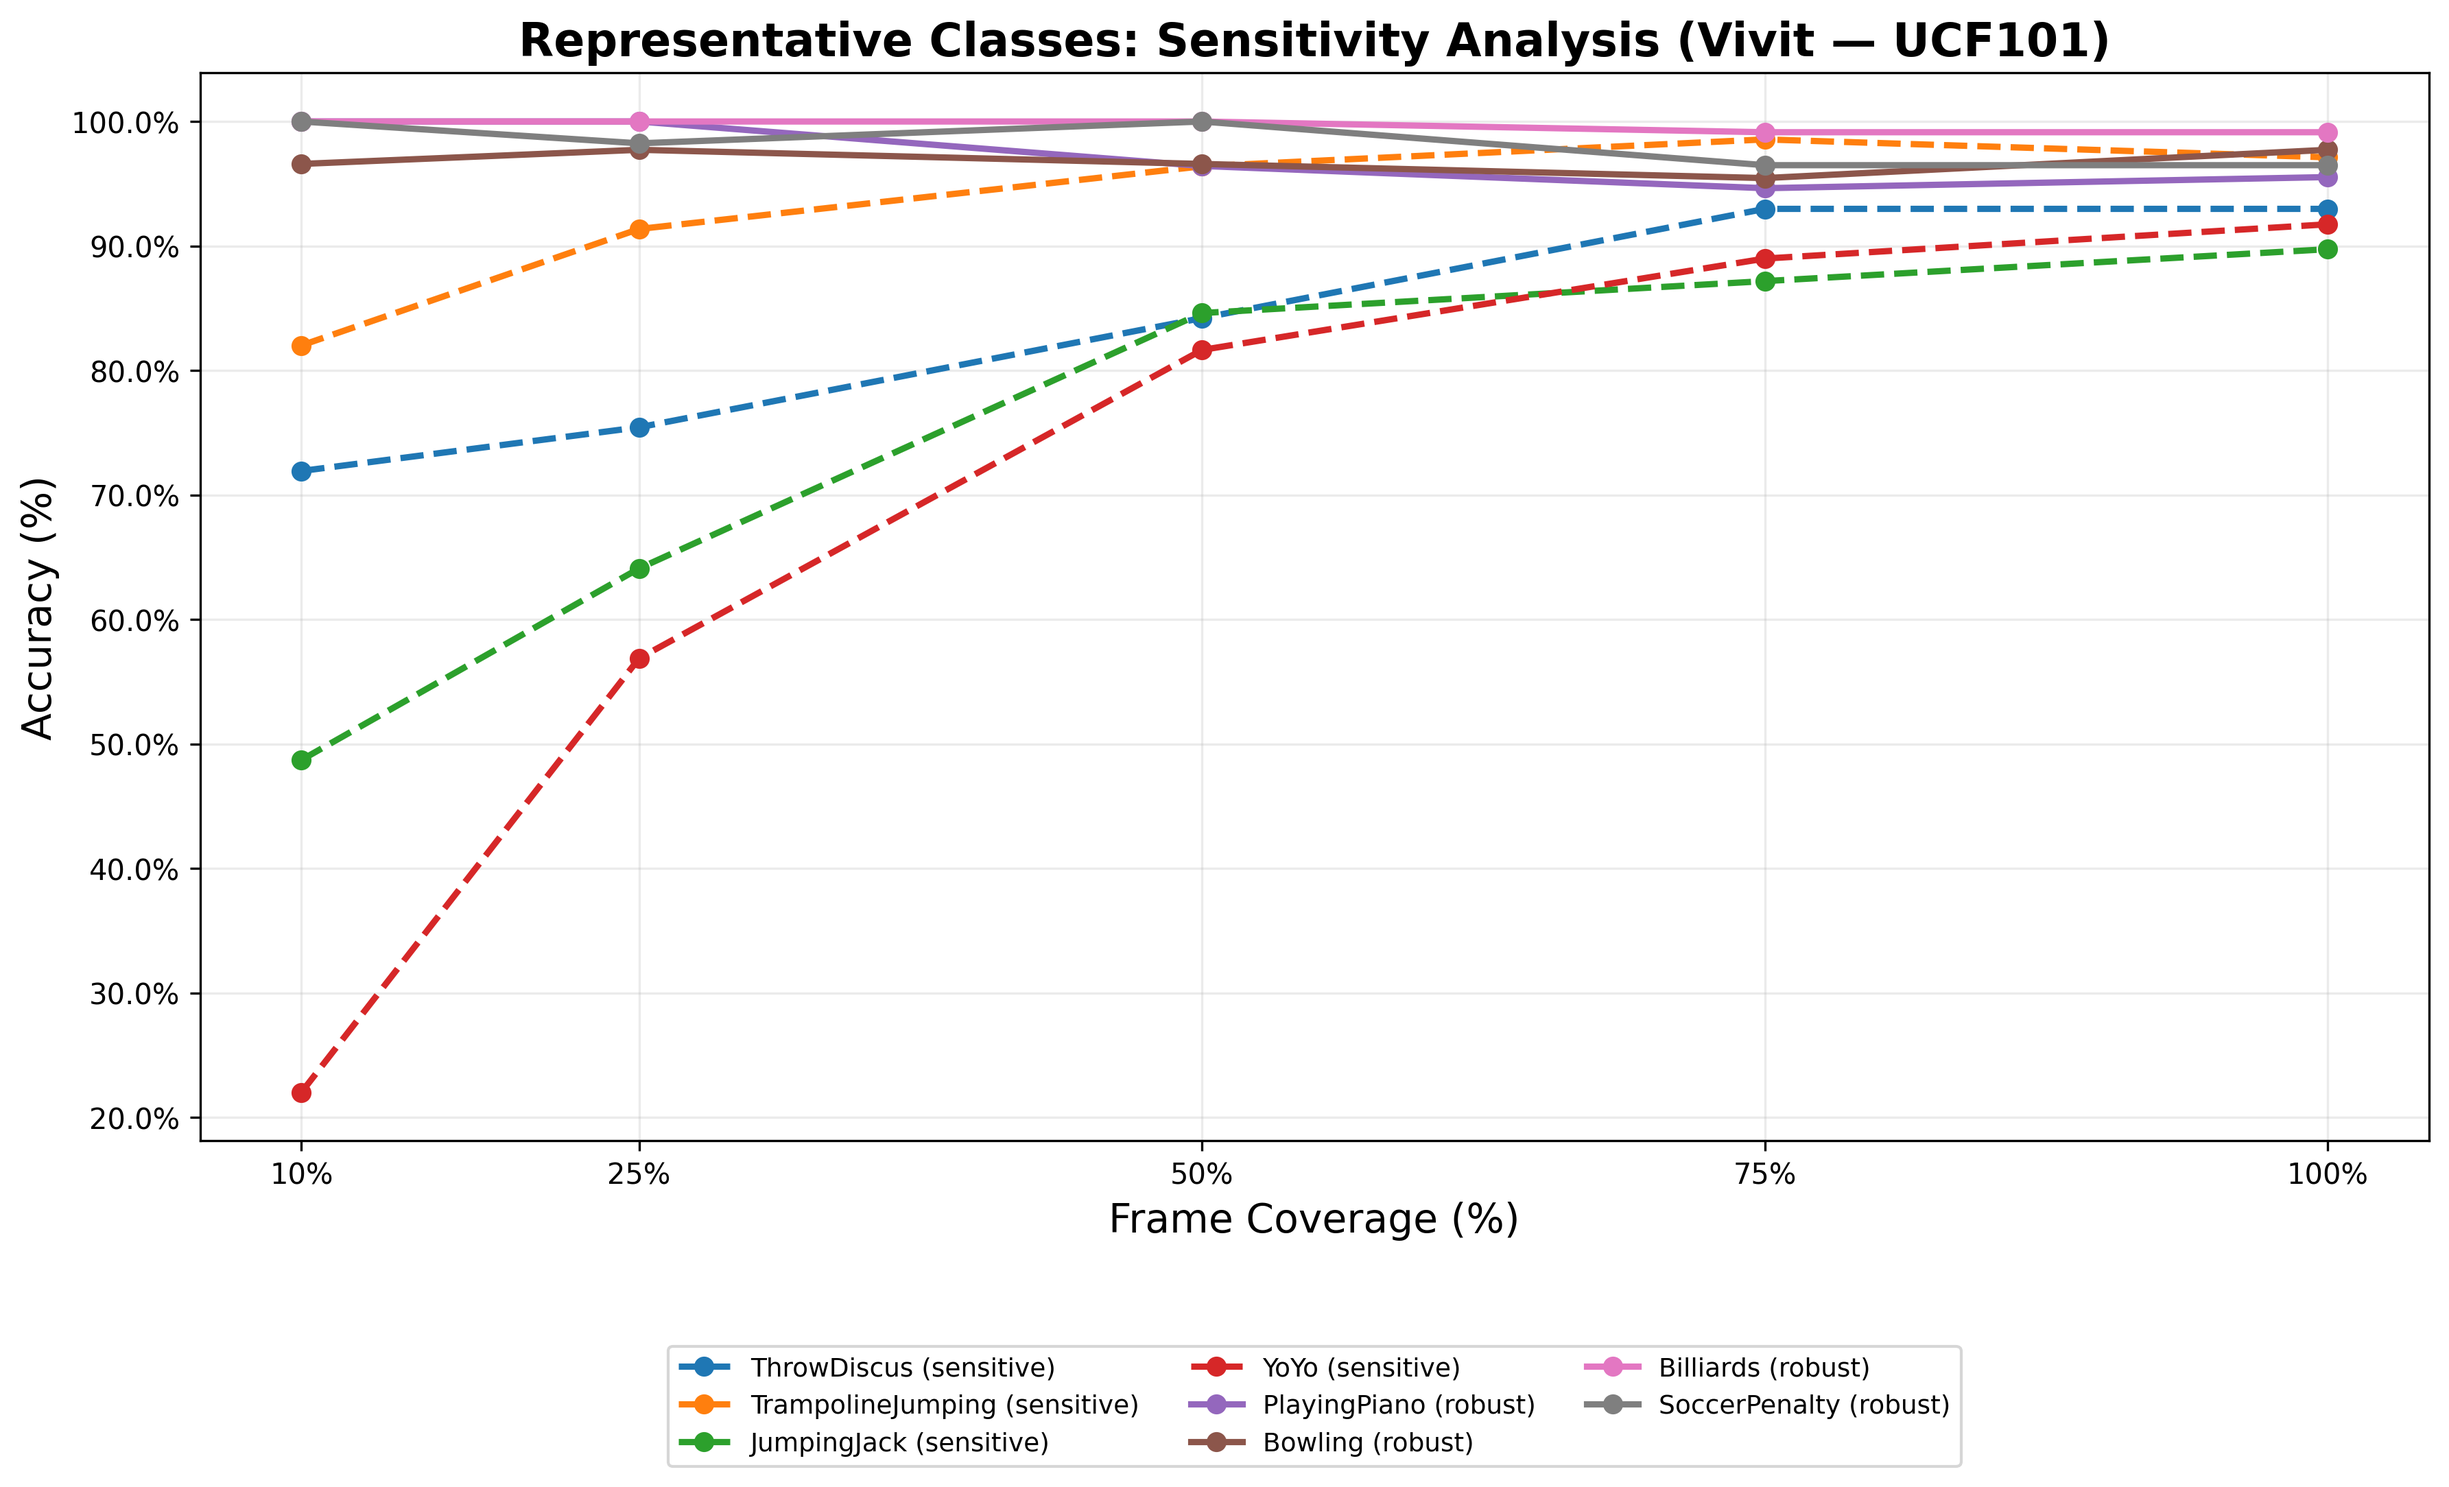
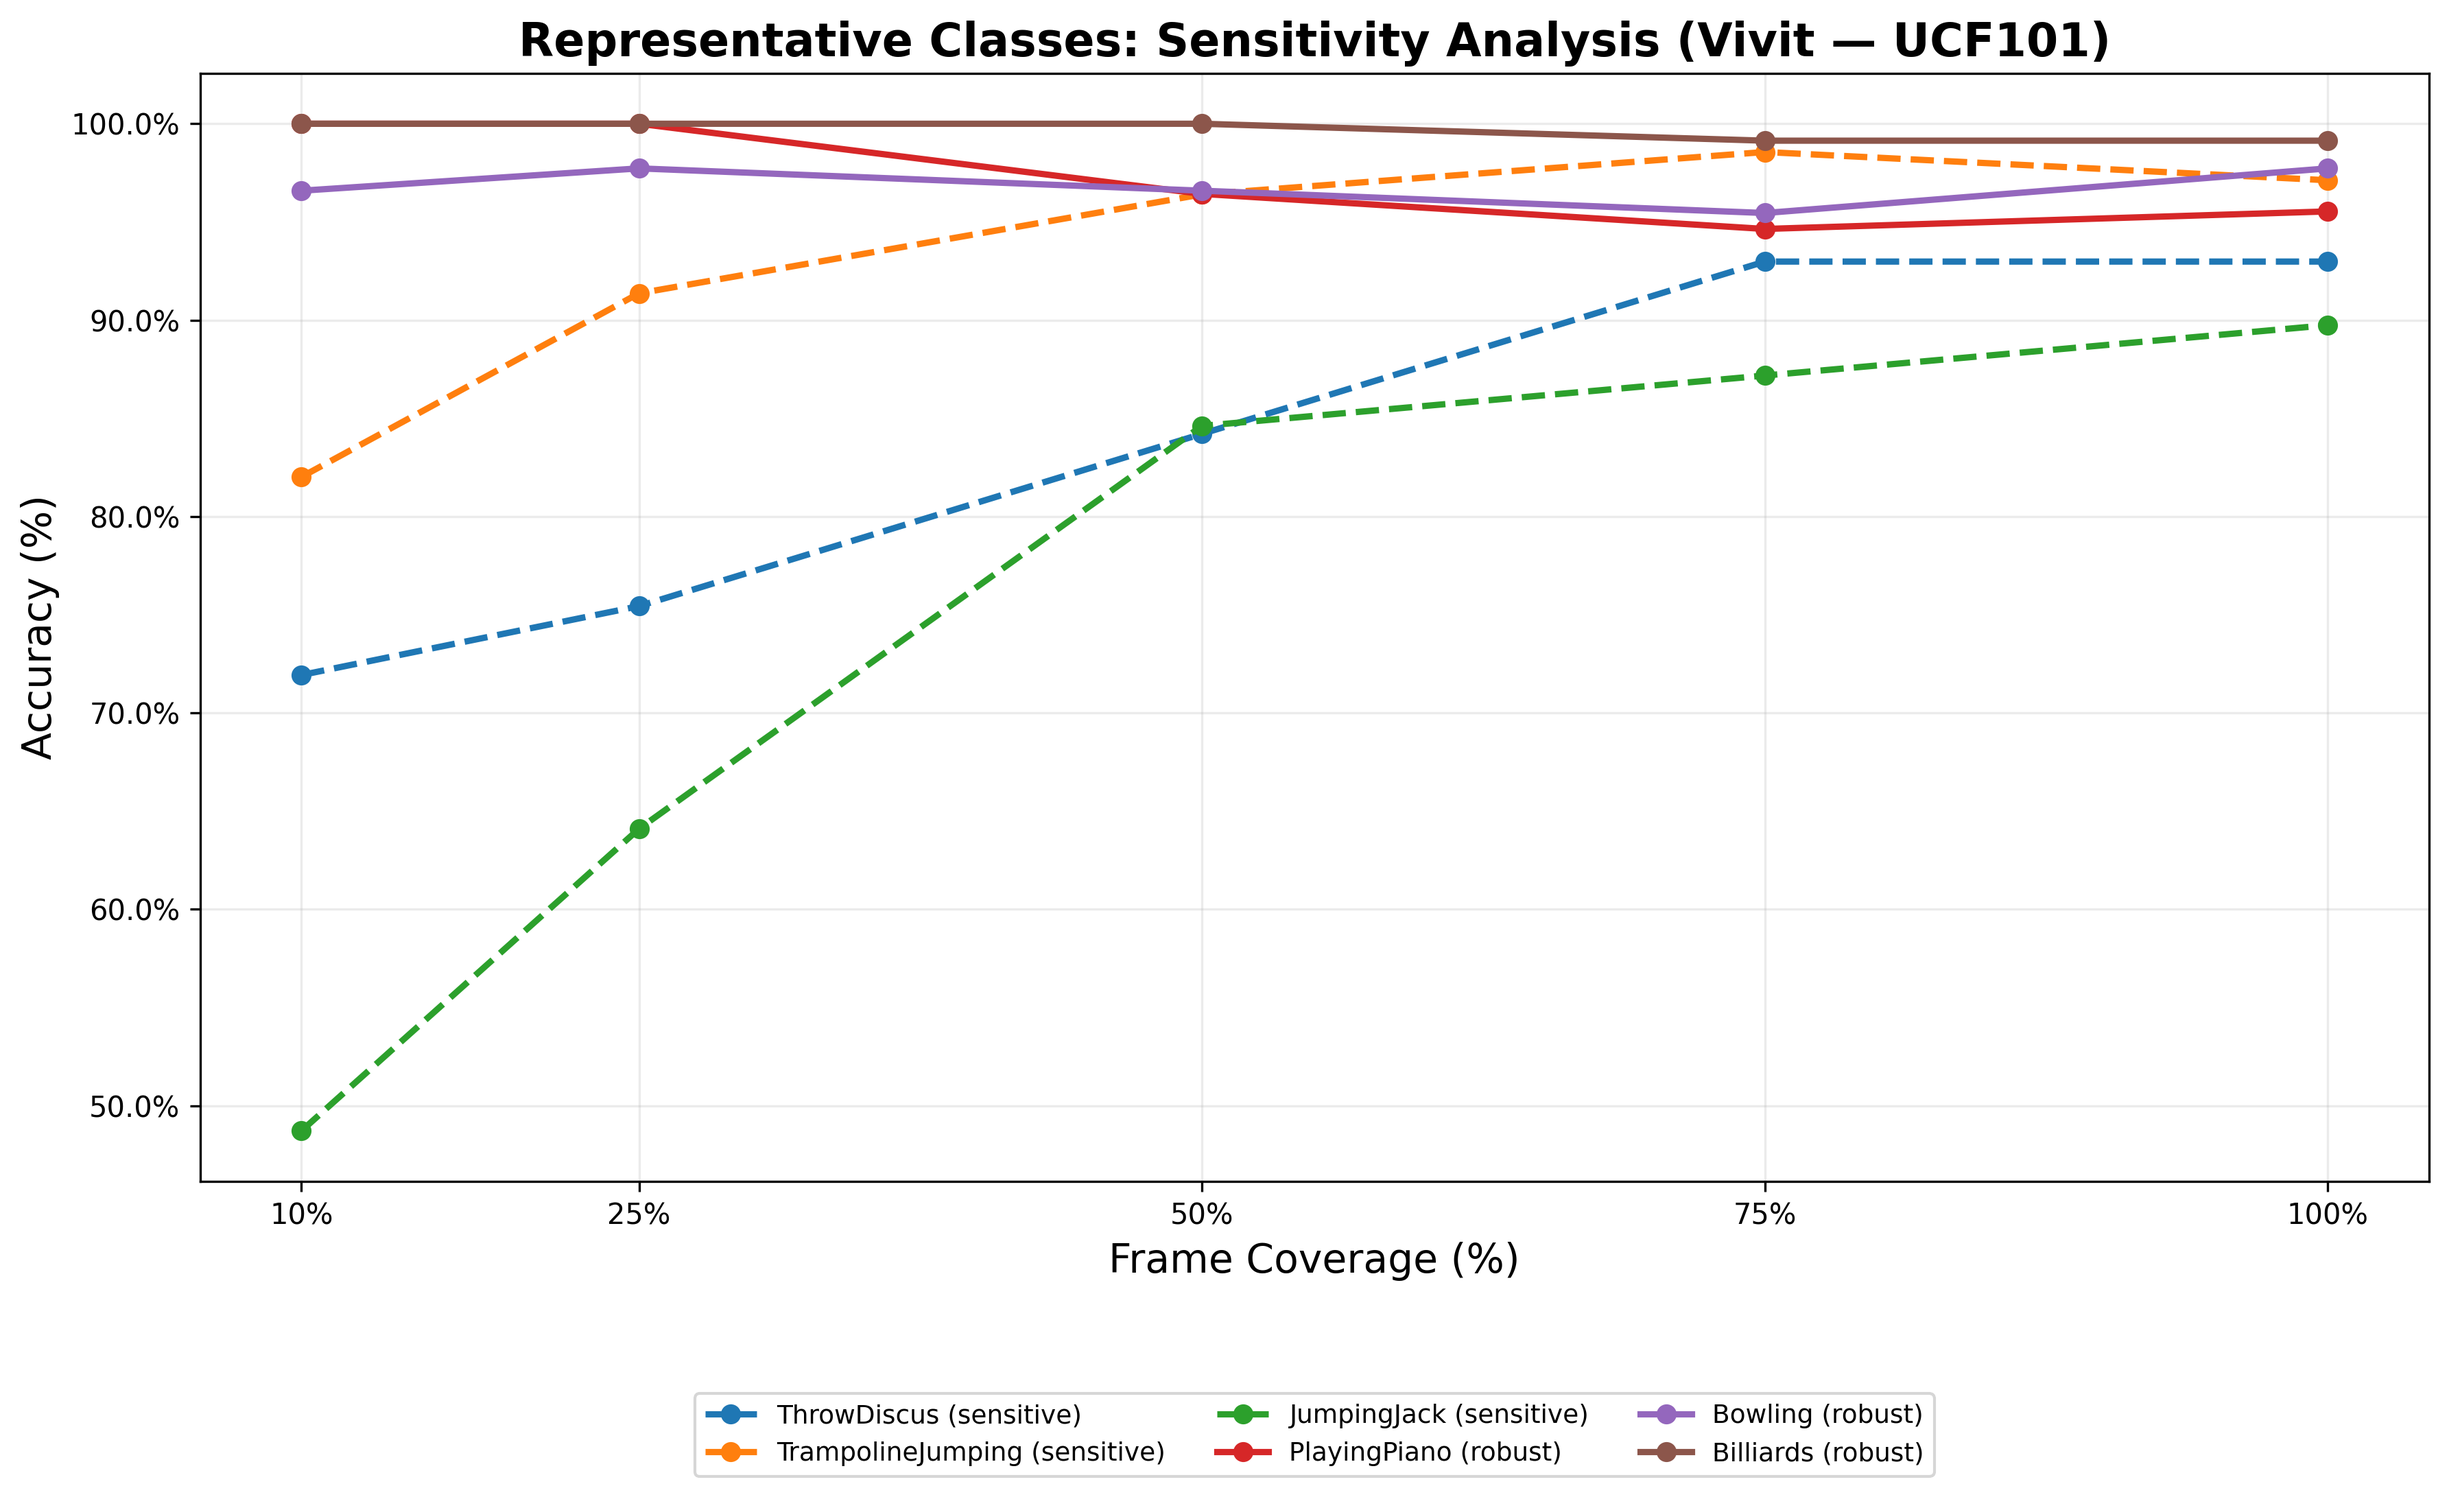
Plot: use 3 sensitive + 3 robust per dataset; regenerate per-model representative plots and composite

diff --git a/scripts/plotting/generate_analysis_plots.py b/scripts/plotting/generate_analysis_plots.py
@@ -121,13 +121,13 @@ def generate_distribution_plot(per_class_csv, output_dir, model_name, stride=8):
     plt.close()
     print(f"✅ Saved: {output_path} and {output_path_hi}")
 
-def compute_shared_classes(models_dirs, n_sensitive=4, n_robust=4, max_total=8):
+def compute_shared_classes(models_dirs, n_sensitive=3, n_robust=3, max_total=6):
     """Compute a shared set of representative classes across multiple model per-class CSVs.
 
     For each model, we pick the top `n_sensitive` classes (largest 100→25 drop) and the top
     `n_robust` classes (smallest variance across coverages). Then we take the union across
-    models and limit to `max_total` classes (4 sensitive + 4 robust) so each representative
-    plot displays exactly 8 classes for clear comparison across models within a dataset.
+    models and limit to `max_total` classes (3 sensitive + 3 robust) so each representative
+    plot displays exactly 6 classes for clear comparison across models within a dataset.
     """
     shared = []
     for mdir in models_dirs:
@@ -367,7 +367,7 @@ def generate_representative_composite(evaluations_base_dir, output_dir):
     for i, dataset in enumerate(datasets):
         # Compute shared classes for this dataset
         model_dirs = [Path(evaluations_base_dir) / dataset / m for m in models]
-        shared = compute_shared_classes(model_dirs, n_sensitive=4, n_robust=4, max_total=8)
+        shared = compute_shared_classes(model_dirs, n_sensitive=3, n_robust=3, max_total=6)
 
         for j, model in enumerate(models):
             ax = axes[i, j]
@@ -622,7 +622,7 @@ def main():
 
     # After all models for this dataset are processed, compute shared classes across models and regenerate representative plots to use the same classes
     models_dirs = [evaluations_dir / m for m in models]
-    shared = compute_shared_classes(models_dirs, n_sensitive=4, n_robust=4, max_total=8)
+    shared = compute_shared_classes(models_dirs, n_sensitive=3, n_robust=3, max_total=6)
     for model in models:
         model_dir = evaluations_dir / model
         matches = list(model_dir.glob("*per_class*.csv"))
